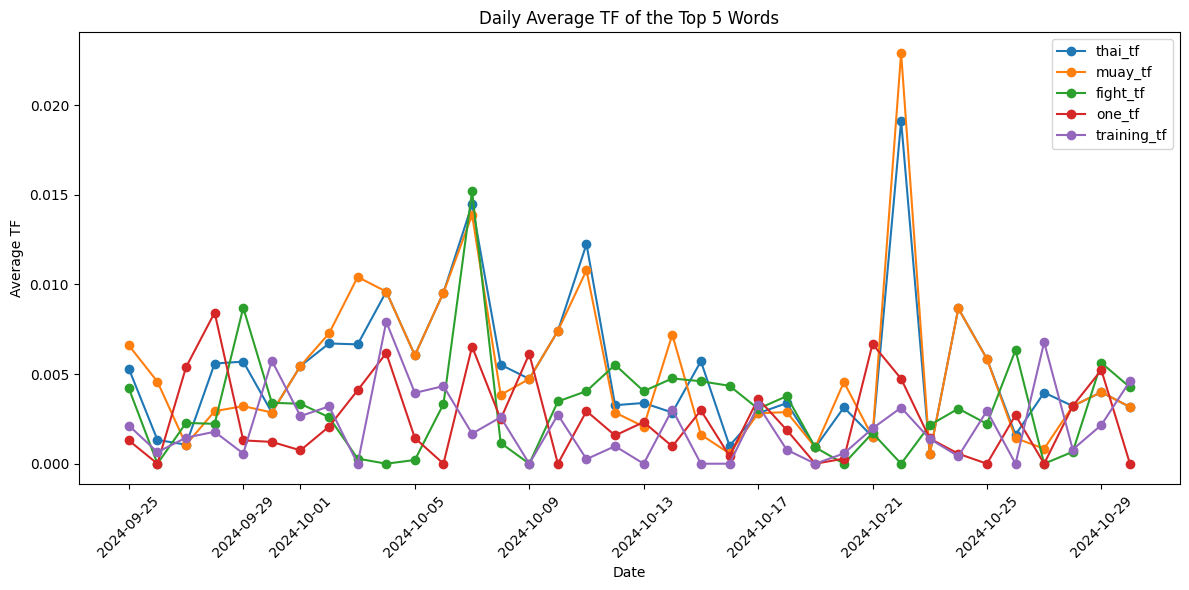
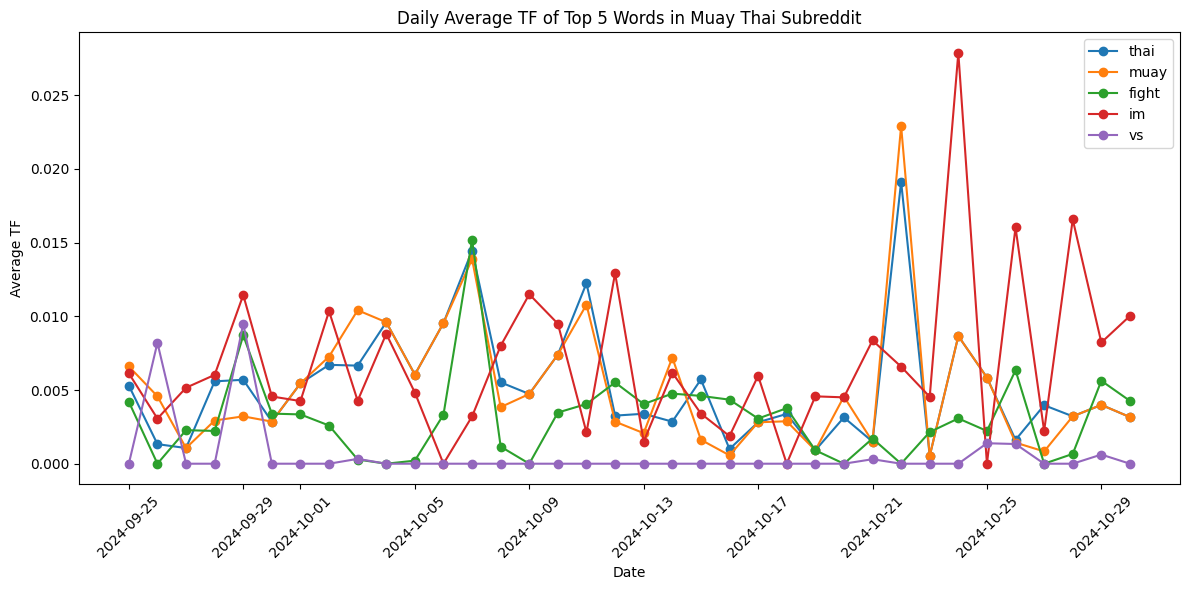
updated readme

diff --git a/README.md b/README.md
@@ -22,9 +22,6 @@ from reddit_helper import *
 import os
 import pyarrow
 import pickle
-from datetime import datetime, timezone
-from dateutil import tz
-import matplotlib.pyplot as plt
 ```
 
 Let's first collect  50 posts from the r/MuayThai, r/bjj, r/MMA, and r/Boxing subreddits, and display some of their initial characteristics. This is done using the `RedditScraper` class created in the `reddit_helper.py` file. 
@@ -148,29 +145,27 @@ for subreddit in subreddits:
     
     Vocabulary Statistics for r/MMA:
     Total words: 22560
-    Unique words: 4138
+    Unique words: 4140
     Words appearing ≥2 times: 1872
-    Coverage by top 1000 words: 81.11%
+    Coverage by top 1000 words: 81.10%
     Matrix shape: (500, 1000)
     Matrix sparsity: 98.31%
     
     Top 10 terms by TF-IDF score:
             term     score
-    945       vs  0.068716
-    916      ufc  0.062746
-    334    fight  0.048343
-    825  spoiler  0.038150
-    50       308  0.027530
+    945       vs  0.068714
+    916      ufc  0.062744
+    334    fight  0.048341
+    825  spoiler  0.038149
+    50       308  0.027527
     567      mma  0.024670
     512     link  0.023135
     630  oktagon  0.022059
-    897    title  0.019960
+    897    title  0.019959
     345    flair  0.018679
     
     Analyzing r/Boxing...
     Loading cached data for r/Boxing...
-
-
     
     Vocabulary Statistics for r/Boxing:
     Total words: 34765
@@ -234,247 +229,39 @@ print(submissions['MuayThai'][0]['created_utc'])
     1730323742.0
 
 
-I create a `DataFrame` with each post, their texts, and creation dates. This `DataFrame` will later be used to count occurences of words and calculate their frequencies over time.
+Using helper functions created in `reddit_helper.py`, I create a `DataFrame` with each post, their text, creation date and the counts and term-frequencies of their top-terms.
 
 
 ```python
-data = []
+# Top 10 words (TF-IDF)
+top_terms = results['MuayThai']['top_terms']['term'].tolist()
 
-for i in range(len(submissions['MuayThai'])):
-    # Collect each post's data into a dictionary
-    post_data = {
-        'post_id': i,  # or use submissions['MuayThai'][i]['id'] if available
-        'text': submissions['MuayThai'][i]['selftext'],
-        'created_utc_unix': submissions['MuayThai'][i]['created_utc'],
-    }
+# Processing the result of the Reddit scraping for r/MuayThai
+# Creates a DataFrame with the counts and TF of top terms
+word_freq_muaythai_df = process_posts(submissions['MuayThai'], 'MuayThai', top_terms)
 
-    # Remove punctuation from the text
-    post_data['text'] = remove_punctuation(post_data['text'])
-    
-    # Get creation date of the post
-    post_data['created_date'] = datetime.fromtimestamp(post_data['created_utc_unix'], tz=timezone.utc).strftime('%Y-%m-%d %H:%M:%S')
-
-    # Calculate total word count for each post
-    post_data['total_word_count'] = len(post_data['text'].split())
-
-    # Count occurrences and TF of each top term in the post text
-    for term in results['MuayThai']['top_terms']['term']:
-        post_data[f'{term}_count'] = post_data['text'].lower().split().count(term.lower())
-
-        # Calculate term frequency, taking posts with no text into account
-        if post_data['total_word_count'] > 0:
-            post_data[f'{term}_tf'] = post_data[f'{term}_count'] / post_data['total_word_count']
-        else:
-            post_data[f'{term}_tf'] = 0.0  # Assign 0.0 if total_word_count is zero
-
-    data.append(post_data)  # Append the dictionary to the list
-
-    
-# Create a DataFrame from the list of dictionaries
-word_freq_muaythai_df = pd.DataFrame(data)
-
-word_freq_muaythai_df.head()
+# Check the structure of the DataFrame
+word_freq_muaythai_df.columns
 ```
 
 
 
 
-<div>
-<style scoped>
-    .dataframe tbody tr th:only-of-type {
-        vertical-align: middle;
-    }
-
-    .dataframe tbody tr th {
-        vertical-align: top;
-    }
-
-    .dataframe thead th {
-        text-align: right;
-    }
-</style>
-<table border="1" class="dataframe">
-  <thead>
-    <tr style="text-align: right;">
-      <th></th>
-      <th>post_id</th>
-      <th>text</th>
-      <th>created_utc_unix</th>
-      <th>created_date</th>
-      <th>total_word_count</th>
-      <th>thai_count</th>
-      <th>thai_tf</th>
-      <th>muay_count</th>
-      <th>muay_tf</th>
-      <th>fight_count</th>
-      <th>...</th>
-      <th>one_count</th>
-      <th>one_tf</th>
-      <th>training_count</th>
-      <th>training_tf</th>
-      <th>like_count</th>
-      <th>like_tf</th>
-      <th>sparring_count</th>
-      <th>sparring_tf</th>
-      <th>get_count</th>
-      <th>get_tf</th>
-    </tr>
-  </thead>
-  <tbody>
-    <tr>
-      <th>0</th>
-      <td>0</td>
-      <td>Hey guys I need to cut 253kg 55lbs in 10 days ...</td>
-      <td>1.730324e+09</td>
-      <td>2024-10-30 21:29:02</td>
-      <td>38</td>
-      <td>0</td>
-      <td>0.000000</td>
-      <td>0</td>
-      <td>0.000000</td>
-      <td>0</td>
-      <td>...</td>
-      <td>0</td>
-      <td>0.0</td>
-      <td>0</td>
-      <td>0.000000</td>
-      <td>0</td>
-      <td>0.00000</td>
-      <td>0</td>
-      <td>0.000000</td>
-      <td>0</td>
-      <td>0.0</td>
-    </tr>
-    <tr>
-      <th>1</th>
-      <td>1</td>
-      <td></td>
-      <td>1.730319e+09</td>
-      <td>2024-10-30 20:14:30</td>
-      <td>0</td>
-      <td>0</td>
-      <td>0.000000</td>
-      <td>0</td>
-      <td>0.000000</td>
-      <td>0</td>
-      <td>...</td>
-      <td>0</td>
-      <td>0.0</td>
-      <td>0</td>
-      <td>0.000000</td>
-      <td>0</td>
-      <td>0.00000</td>
-      <td>0</td>
-      <td>0.000000</td>
-      <td>0</td>
-      <td>0.0</td>
-    </tr>
-    <tr>
-      <th>2</th>
-      <td>2</td>
-      <td>So Im going to my 3rd class tonight at a prett...</td>
-      <td>1.730297e+09</td>
-      <td>2024-10-30 13:59:14</td>
-      <td>177</td>
-      <td>0</td>
-      <td>0.000000</td>
-      <td>0</td>
-      <td>0.000000</td>
-      <td>0</td>
-      <td>...</td>
-      <td>0</td>
-      <td>0.0</td>
-      <td>1</td>
-      <td>0.005650</td>
-      <td>1</td>
-      <td>0.00565</td>
-      <td>0</td>
-      <td>0.000000</td>
-      <td>0</td>
-      <td>0.0</td>
-    </tr>
-    <tr>
-      <th>3</th>
-      <td>3</td>
-      <td>Training Muay Thai and once a week we have box...</td>
-      <td>1.730296e+09</td>
-      <td>2024-10-30 13:43:12</td>
-      <td>49</td>
-      <td>1</td>
-      <td>0.020408</td>
-      <td>1</td>
-      <td>0.020408</td>
-      <td>0</td>
-      <td>...</td>
-      <td>0</td>
-      <td>0.0</td>
-      <td>1</td>
-      <td>0.020408</td>
-      <td>0</td>
-      <td>0.00000</td>
-      <td>1</td>
-      <td>0.020408</td>
-      <td>0</td>
-      <td>0.0</td>
-    </tr>
-    <tr>
-      <th>4</th>
-      <td>4</td>
-      <td>Ive been studying Muay Thai for about a year a...</td>
-      <td>1.730293e+09</td>
-      <td>2024-10-30 12:50:42</td>
-      <td>124</td>
-      <td>1</td>
-      <td>0.008065</td>
-      <td>1</td>
-      <td>0.008065</td>
-      <td>1</td>
-      <td>...</td>
-      <td>0</td>
-      <td>0.0</td>
-      <td>0</td>
-      <td>0.000000</td>
-      <td>0</td>
-      <td>0.00000</td>
-      <td>0</td>
-      <td>0.000000</td>
-      <td>0</td>
-      <td>0.0</td>
-    </tr>
-  </tbody>
-</table>
-<p>5 rows × 25 columns</p>
-</div>
+    Index(['post_id', 'created_utc_unix', 'created_date', 'thai_count', 'thai_tf',
+           'muay_count', 'muay_tf', 'fight_count', 'fight_tf', 'im_count', 'im_tf',
+           'vs_count', 'vs_tf', 'one_count', 'one_tf', 'training_count',
+           'training_tf', 'like_count', 'like_tf', 'sparring_count', 'sparring_tf',
+           'get_count', 'get_tf', 'total_word_count'],
+          dtype='object')
 
 
 
 
 ```python
-def plot_top_words_freq():
-    # Convert 'created_date' to datetime
-    word_freq_muaythai_df['created_date'] = pd.to_datetime(word_freq_muaythai_df['created_date'])
+# Get top 5 terms instead of 10 for better clarity
+top5_terms = results['MuayThai']['top_terms']['term'].head(5).tolist()
 
-# Extract date for daily aggregation
-    word_freq_muaythai_df['date'] = word_freq_muaythai_df['created_date'].dt.date
-
-# Calculate the daily average TF for the first five words
-    tf_columns = ['thai_tf', 'muay_tf', 'fight_tf', 'one_tf', 'training_tf']
-    daily_average_tf = word_freq_muaythai_df.groupby('date')[tf_columns].mean().reset_index()
-
-# Plotting
-    plt.figure(figsize=(12, 6))
-    for word in tf_columns:
-        plt.plot(daily_average_tf['date'], daily_average_tf[word], marker='o', label=word)
-
-    plt.title('Daily Average TF of the Top 5 Words')
-    plt.xlabel('Date')
-    plt.ylabel('Average TF')
-    plt.xticks(rotation=45)
-    plt.legend()
-    plt.tight_layout()
-    plt.show()
-
-plot_top_words_freq()
+plot_top_words_freq(word_freq_muaythai_df, top5_terms, title='Daily Average TF of Top 5 Words in Muay Thai Subreddit')
 ```
 
 
@@ -483,38 +270,6 @@ plot_top_words_freq()
     
 
 
+This plot shows the daily average term frequency (TF) of the top five words from the Muay Thai subreddit ("thai," "muay," "fight," "im," and "vs") over a period of about a month. Superficially, fluctuations in the prominence of these words could reflect the ebb and flow of discussions surrounding specific topics or events related to Muay Thai, such as training discussions or high-profile fights. 
 
-3. **Plot keywords over time**. Expand your results to anywhere from 250 upwards (I would here cap at 500 max and think that the api might only return last 1000 but untested). Determine the top keywords using TFIDF. Then plot the frequency of these keywords over this time period for these results.   
-4. **Table the most common URLs for stories**. Triangulate these plots with a table summarising the top news outlets for this sub in this time period. Notice the starter code to process this from the posts data that has been stored in a large `submissions` dictionary. Note, this code does not turn all the `json` into a DataFrame, but extracts only the URL column and processes that. It also uses a _regular expression_ to separate out the top level domain, which may or may not be the most robust.  
-5. **Write a summary**. Solely for reflection at this point, write some intuitions that you discover with this exploration. 
-
-
-
-```python
-# Data Exploration: 
-submissions['MuayThai'][0] # Example post from the MuayThai subreddit
-
-url_list = [post['url'] for post in submissions['MuayThai']]
-url_df = pd.DataFrame(url_list, columns=['url'])
-url_df['domain'] = url_df['url'].str.extract(r'(https?://[^/]+)')
-
-url_df['domain'].value_counts().head(10)
-```
-
-
-
-
-    domain
-    https://www.reddit.com               322
-    https://v.redd.it                     61
-    https://i.redd.it                     50
-    https://youtu.be                      33
-    https://www.youtube.com               18
-    https://muay-ying.com                  3
-    https://youtube.com                    2
-    https://www.mixingmartialarts.com      2
-    https://m.youtube.com                  2
-    https://x.com                          1
-    Name: count, dtype: int64
-
-
+Perhaps the most telling example is the peak of the word 'fight' on October 7th 2024, which corresponds to the RWS Muay Thai tournament that happened on that day, and was at the center of discussions on the Reddit.
